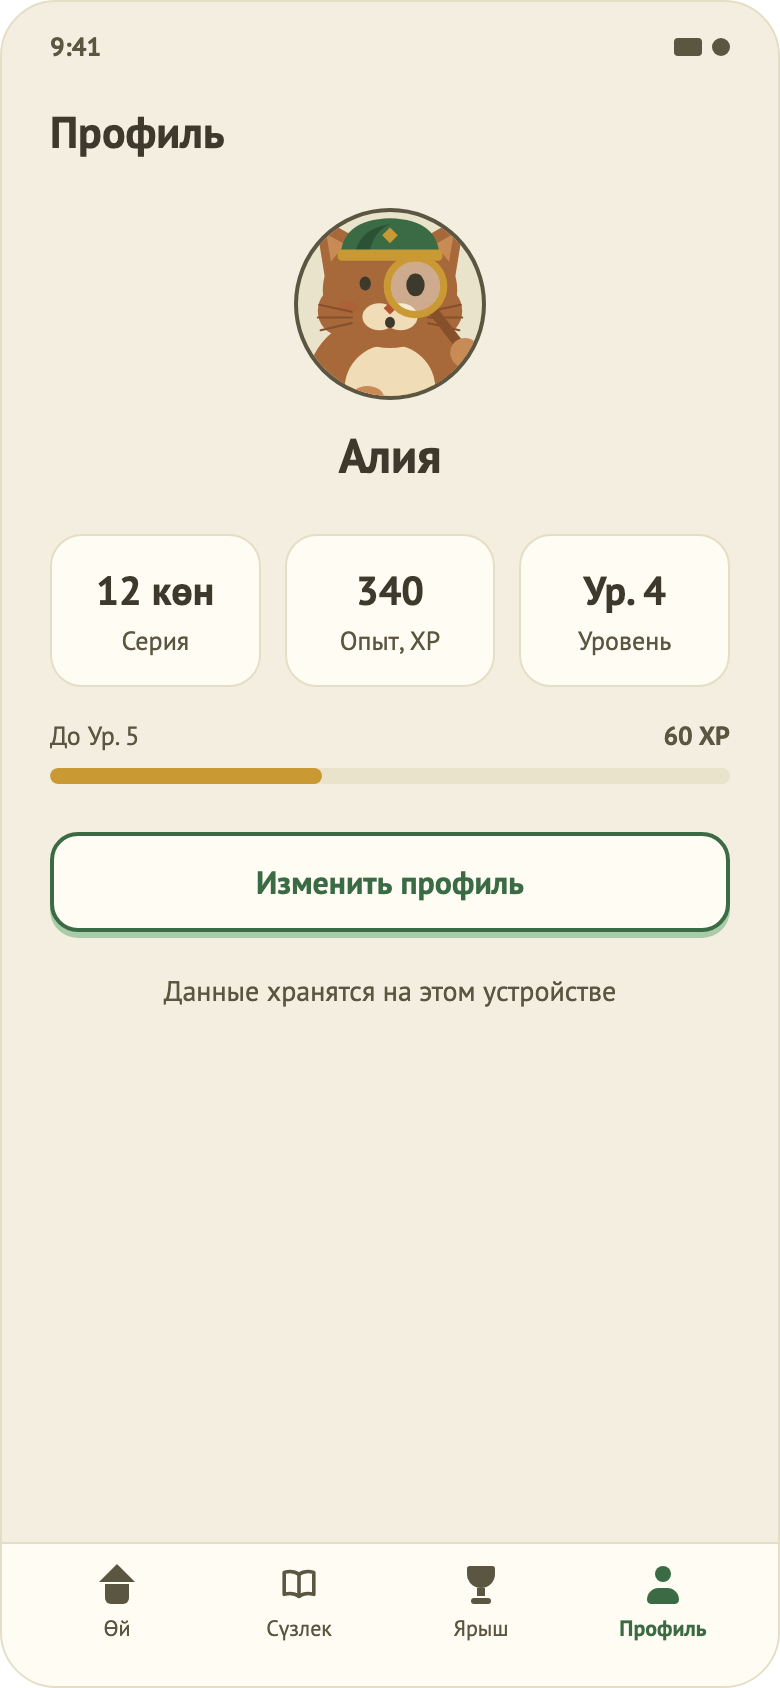
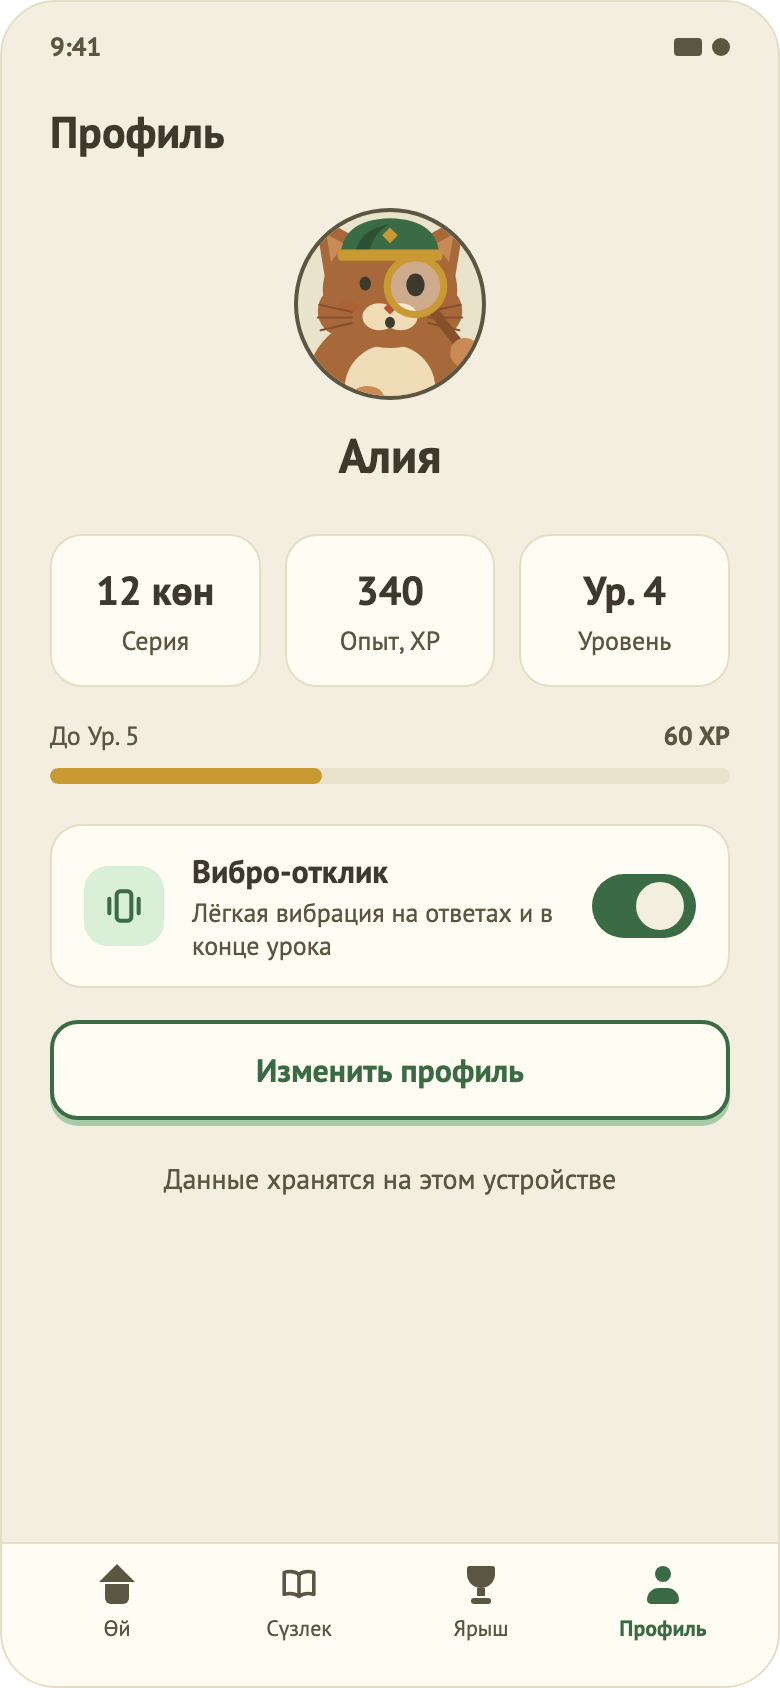
Add vibro toggle row to profile design

Changed region(s): [[0.0615, 0.4929, 0.9538, 0.7085]]

diff --git a/design/Tatar App Screens.dc.html b/design/Tatar App Screens.dc.html
@@ -449,7 +449,8 @@
 <div style="padding:24px 24px 0;display:flex;flex-direction:column;align-items:center;gap:12px"><div style="width:96px;height:96px;border-radius:50%;background:#3B6B45;color:#F3EEDF;border:2px solid #5A5642;box-sizing:border-box;display:flex;align-items:center;justify-content:center;font-size:40px;font-weight:700;flex-shrink:0">А</div><div style="font-size:24px;font-weight:700">Алия</div></div>
 <div style="padding:24px 24px 0;display:flex;gap:12px"><div style="flex:1;background:#FFFCF3;border:1px solid #E5DEC6;border-radius:16px;padding:14px 8px;display:flex;flex-direction:column;align-items:center;gap:4px"><div style="font-size:20px;font-weight:700">12 көн</div><div style="font-size:13px;color:#5A5642">Серия</div></div><div style="flex:1;background:#FFFCF3;border:1px solid #E5DEC6;border-radius:16px;padding:14px 8px;display:flex;flex-direction:column;align-items:center;gap:4px"><div style="font-size:20px;font-weight:700">340</div><div style="font-size:13px;color:#5A5642">Опыт, XP</div></div><div style="flex:1;background:#FFFCF3;border:1px solid #E5DEC6;border-radius:16px;padding:14px 8px;display:flex;flex-direction:column;align-items:center;gap:4px"><div style="font-size:20px;font-weight:700">Ур. 4</div><div style="font-size:13px;color:#5A5642">Уровень</div></div></div>
 <div style="padding:16px 24px 0"><div style="display:flex;flex-direction:column;gap:8px"><div style="display:flex;justify-content:space-between;font-size:13px;color:#5A5642"><span>До Ур. 5</span><span style="font-weight:700">60 XP</span></div><div style="height:8px;border-radius:4px;background:#EAE3CB;overflow:hidden"><div style="width:40%;height:100%;background:#C99A34;border-radius:4px"></div></div></div></div>
-<div style="padding:24px 24px 0"><div style="height:50px;border-radius:14px;background:#FFFCF3;border:2px solid #3B6B45;display:flex;align-items:center;justify-content:center;font-size:16px;font-weight:700;color:#3B6B45;box-shadow:0 3px 0 #A9CBA8;box-sizing:border-box">Изменить профиль</div></div>
+<div style="padding:20px 24px 0"><div style="background:#FFFCF3;border:1px solid #E5DEC6;border-radius:16px;padding:12px 16px;min-height:64px;display:flex;align-items:center;gap:14px;box-sizing:border-box"><div style="width:40px;height:40px;border-radius:12px;background:#D9EFD8;display:flex;align-items:center;justify-content:center;flex-shrink:0"><svg width="22" height="22" viewBox="0 0 24 24" fill="none" stroke="#3B6B45" stroke-width="2.2" stroke-linecap="round" stroke-linejoin="round"><rect x="8" y="4" width="8" height="16" rx="2"/><path d="M4 8 V16 M20 8 V16"/></svg></div><div style="flex:1;display:flex;flex-direction:column;gap:2px"><div style="font-size:16px;font-weight:700">Вибро-отклик</div><div style="font-size:13px;color:#5A5642">Лёгкая вибрация на ответах и в конце урока</div></div><div style="position:relative;width:52px;height:32px;border-radius:16px;background:#3B6B45;box-sizing:border-box;flex-shrink:0"><div style="position:absolute;top:4px;left:22px;width:24px;height:24px;border-radius:50%;background:#F3EEDF"></div></div></div></div>
+<div style="padding:16px 24px 0"><div style="height:50px;border-radius:14px;background:#FFFCF3;border:2px solid #3B6B45;display:flex;align-items:center;justify-content:center;font-size:16px;font-weight:700;color:#3B6B45;box-shadow:0 3px 0 #A9CBA8;box-sizing:border-box">Изменить профиль</div></div>
 <div style="padding:20px 24px 0;font-size:14px;color:#5A5642;text-align:center">Данные хранятся на этом устройстве</div>
 <div style="margin-top:auto;border-top:1px solid #E5DEC6;background:#FFFCF3;display:flex;padding:10px 12px 22px"><div style="flex:1;display:flex;flex-direction:column;align-items:center;gap:5px"><div style="width:20px;height:20px;position:relative"><div style="position:absolute;top:0;left:1px;width:0;height:0;border-left:9px solid transparent;border-right:9px solid transparent;border-bottom:9px solid #5A5642"></div><div style="position:absolute;bottom:0;left:4px;width:12px;height:10px;background:#5A5642;border-radius:0 0 3px 3px"></div></div><div style="font-size:11px;color:#5A5642">Өй</div></div><div style="flex:1;display:flex;flex-direction:column;align-items:center;gap:5px"><svg width="20" height="20" viewBox="0 0 20 20" fill="none" stroke="#5A5642" stroke-width="1.8" stroke-linejoin="round" stroke-linecap="round"><path d="M10 5.2C8 3.7 5.2 3.4 2.6 4.2V15.2C5.2 14.4 8 14.7 10 16.2C12 14.7 14.8 14.4 17.4 15.2V4.2C14.8 3.4 12 3.7 10 5.2Z"/><path d="M10 5.2V16.2"/></svg><div style="font-size:11px;color:#5A5642">Сүзлек</div></div><div style="flex:1;display:flex;flex-direction:column;align-items:center;gap:5px"><div style="width:20px;height:20px;position:relative"><div style="position:absolute;top:1px;left:3px;width:14px;height:11px;background:#5A5642;border-radius:2px 2px 10px 10px"></div><div style="position:absolute;top:12px;left:8px;width:4px;height:4px;background:#5A5642"></div><div style="position:absolute;bottom:0;left:5px;width:10px;height:3px;background:#5A5642;border-radius:2px"></div></div><div style="font-size:11px;color:#5A5642">Ярыш</div></div><div style="flex:1;display:flex;flex-direction:column;align-items:center;gap:5px"><div style="width:20px;height:20px;position:relative"><div style="position:absolute;top:1px;left:6px;width:8px;height:8px;border-radius:50%;background:#3B6B45"></div><div style="position:absolute;bottom:0;left:2px;width:16px;height:8px;background:#3B6B45;border-radius:8px 8px 3px 3px"></div></div><div style="font-size:11px;font-weight:700;color:#3B6B45">Профиль</div></div></div>
       </div>
@@ -554,7 +555,23 @@
 </div><div style="font-size:24px;font-weight:700">Алия</div></div>
 <div style="padding:24px 24px 0;display:flex;gap:12px"><div style="flex:1;background:#FFFCF3;border:1px solid #E5DEC6;border-radius:16px;padding:14px 8px;display:flex;flex-direction:column;align-items:center;gap:4px"><div style="font-size:20px;font-weight:700">12 көн</div><div style="font-size:13px;color:#5A5642">Серия</div></div><div style="flex:1;background:#FFFCF3;border:1px solid #E5DEC6;border-radius:16px;padding:14px 8px;display:flex;flex-direction:column;align-items:center;gap:4px"><div style="font-size:20px;font-weight:700">340</div><div style="font-size:13px;color:#5A5642">Опыт, XP</div></div><div style="flex:1;background:#FFFCF3;border:1px solid #E5DEC6;border-radius:16px;padding:14px 8px;display:flex;flex-direction:column;align-items:center;gap:4px"><div style="font-size:20px;font-weight:700">Ур. 4</div><div style="font-size:13px;color:#5A5642">Уровень</div></div></div>
 <div style="padding:16px 24px 0"><div style="display:flex;flex-direction:column;gap:8px"><div style="display:flex;justify-content:space-between;font-size:13px;color:#5A5642"><span>До Ур. 5</span><span style="font-weight:700">60 XP</span></div><div style="height:8px;border-radius:4px;background:#EAE3CB;overflow:hidden"><div style="width:40%;height:100%;background:#C99A34;border-radius:4px"></div></div></div></div>
-<div style="padding:24px 24px 0"><div style="height:50px;border-radius:14px;background:#FFFCF3;border:2px solid #3B6B45;display:flex;align-items:center;justify-content:center;font-size:16px;font-weight:700;color:#3B6B45;box-shadow:0 3px 0 #A9CBA8;box-sizing:border-box">Изменить профиль</div></div>
+<div style="padding:20px 24px 0"><div style="background:#FFFCF3;border:1px solid #E5DEC6;border-radius:16px;padding:12px 16px;min-height:64px;display:flex;align-items:center;gap:14px;box-sizing:border-box"><div style="width:40px;height:40px;border-radius:12px;background:#D9EFD8;display:flex;align-items:center;justify-content:center;flex-shrink:0"><svg width="22" height="22" viewBox="0 0 24 24" fill="none" stroke="#3B6B45" stroke-width="2.2" stroke-linecap="round" stroke-linejoin="round"><rect x="8" y="4" width="8" height="16" rx="2"/><path d="M4 8 V16 M20 8 V16"/></svg></div><div style="flex:1;display:flex;flex-direction:column;gap:2px"><div style="font-size:16px;font-weight:700">Вибро-отклик</div><div style="font-size:13px;color:#5A5642">Лёгкая вибрация на ответах и в конце урока</div></div><div style="position:relative;width:52px;height:32px;border-radius:16px;background:#3B6B45;box-sizing:border-box;flex-shrink:0"><div style="position:absolute;top:4px;left:22px;width:24px;height:24px;border-radius:50%;background:#F3EEDF"></div></div></div></div>
+<div style="padding:16px 24px 0"><div style="height:50px;border-radius:14px;background:#FFFCF3;border:2px solid #3B6B45;display:flex;align-items:center;justify-content:center;font-size:16px;font-weight:700;color:#3B6B45;box-shadow:0 3px 0 #A9CBA8;box-sizing:border-box">Изменить профиль</div></div>
+<div style="padding:20px 24px 0;font-size:14px;color:#5A5642;text-align:center">Данные хранятся на этом устройстве</div>
+<div style="margin-top:auto;border-top:1px solid #E5DEC6;background:#FFFCF3;display:flex;padding:10px 12px 22px"><div style="flex:1;display:flex;flex-direction:column;align-items:center;gap:5px"><div style="width:20px;height:20px;position:relative"><div style="position:absolute;top:0;left:1px;width:0;height:0;border-left:9px solid transparent;border-right:9px solid transparent;border-bottom:9px solid #5A5642"></div><div style="position:absolute;bottom:0;left:4px;width:12px;height:10px;background:#5A5642;border-radius:0 0 3px 3px"></div></div><div style="font-size:11px;color:#5A5642">Өй</div></div><div style="flex:1;display:flex;flex-direction:column;align-items:center;gap:5px"><svg width="20" height="20" viewBox="0 0 20 20" fill="none" stroke="#5A5642" stroke-width="1.8" stroke-linejoin="round" stroke-linecap="round"><path d="M10 5.2C8 3.7 5.2 3.4 2.6 4.2V15.2C5.2 14.4 8 14.7 10 16.2C12 14.7 14.8 14.4 17.4 15.2V4.2C14.8 3.4 12 3.7 10 5.2Z"/><path d="M10 5.2V16.2"/></svg><div style="font-size:11px;color:#5A5642">Сүзлек</div></div><div style="flex:1;display:flex;flex-direction:column;align-items:center;gap:5px"><div style="width:20px;height:20px;position:relative"><div style="position:absolute;top:1px;left:3px;width:14px;height:11px;background:#5A5642;border-radius:2px 2px 10px 10px"></div><div style="position:absolute;top:12px;left:8px;width:4px;height:4px;background:#5A5642"></div><div style="position:absolute;bottom:0;left:5px;width:10px;height:3px;background:#5A5642;border-radius:2px"></div></div><div style="font-size:11px;color:#5A5642">Ярыш</div></div><div style="flex:1;display:flex;flex-direction:column;align-items:center;gap:5px"><div style="width:20px;height:20px;position:relative"><div style="position:absolute;top:1px;left:6px;width:8px;height:8px;border-radius:50%;background:#3B6B45"></div><div style="position:absolute;bottom:0;left:2px;width:16px;height:8px;background:#3B6B45;border-radius:8px 8px 3px 3px"></div></div><div style="font-size:11px;font-weight:700;color:#3B6B45">Профиль</div></div></div>
+      </div>
+    </div>
+
+    <div data-screen-label="38 Профиль: вибро выключено" style="display:flex;flex-direction:column;gap:10px">
+      <div style="font-family:ui-monospace,monospace;font-size:12px;color:#5A5642">38 · профиль: вибро выключено</div>
+      <div style="position:relative;width:390px;height:844px;background:#F3EEDF;border:1px solid #E5DEC6;border-radius:28px;box-shadow:0 14px 36px rgba(61,58,45,.14);overflow:hidden;display:flex;flex-direction:column;box-sizing:border-box">
+        <div style="display:flex;justify-content:space-between;align-items:center;padding:14px 24px 4px;font-size:13px;font-weight:700;color:#5A5642"><div>9:41</div><div style="display:flex;gap:5px;align-items:center"><div style="width:14px;height:9px;background:#5A5642;border-radius:2px"></div><div style="width:9px;height:9px;background:#5A5642;border-radius:50%"></div></div></div>
+<div style="padding:16px 24px 0;font-size:22px;font-weight:700">Профиль</div>
+<div style="padding:24px 24px 0;display:flex;flex-direction:column;align-items:center;gap:12px"><div style="width:96px;height:96px;border-radius:50%;background:#3B6B45;color:#F3EEDF;border:2px solid #5A5642;box-sizing:border-box;display:flex;align-items:center;justify-content:center;font-size:40px;font-weight:700;flex-shrink:0">А</div><div style="font-size:24px;font-weight:700">Алия</div></div>
+<div style="padding:24px 24px 0;display:flex;gap:12px"><div style="flex:1;background:#FFFCF3;border:1px solid #E5DEC6;border-radius:16px;padding:14px 8px;display:flex;flex-direction:column;align-items:center;gap:4px"><div style="font-size:20px;font-weight:700">12 көн</div><div style="font-size:13px;color:#5A5642">Серия</div></div><div style="flex:1;background:#FFFCF3;border:1px solid #E5DEC6;border-radius:16px;padding:14px 8px;display:flex;flex-direction:column;align-items:center;gap:4px"><div style="font-size:20px;font-weight:700">340</div><div style="font-size:13px;color:#5A5642">Опыт, XP</div></div><div style="flex:1;background:#FFFCF3;border:1px solid #E5DEC6;border-radius:16px;padding:14px 8px;display:flex;flex-direction:column;align-items:center;gap:4px"><div style="font-size:20px;font-weight:700">Ур. 4</div><div style="font-size:13px;color:#5A5642">Уровень</div></div></div>
+<div style="padding:16px 24px 0"><div style="display:flex;flex-direction:column;gap:8px"><div style="display:flex;justify-content:space-between;font-size:13px;color:#5A5642"><span>До Ур. 5</span><span style="font-weight:700">60 XP</span></div><div style="height:8px;border-radius:4px;background:#EAE3CB;overflow:hidden"><div style="width:40%;height:100%;background:#C99A34;border-radius:4px"></div></div></div></div>
+<div style="padding:20px 24px 0"><div style="background:#FFFCF3;border:1px solid #E5DEC6;border-radius:16px;padding:12px 16px;min-height:64px;display:flex;align-items:center;gap:14px;box-sizing:border-box"><div style="width:40px;height:40px;border-radius:12px;background:#D9EFD8;display:flex;align-items:center;justify-content:center;flex-shrink:0"><svg width="22" height="22" viewBox="0 0 24 24" fill="none" stroke="#3B6B45" stroke-width="2.2" stroke-linecap="round" stroke-linejoin="round"><rect x="8" y="4" width="8" height="16" rx="2"/><path d="M4 8 V16 M20 8 V16"/></svg></div><div style="flex:1;display:flex;flex-direction:column;gap:2px"><div style="font-size:16px;font-weight:700">Вибро-отклик</div><div style="font-size:13px;color:#5A5642">Лёгкая вибрация на ответах и в конце урока</div></div><div style="position:relative;width:52px;height:32px;border-radius:16px;background:#EAE3CB;border:2px solid #5A5642;box-sizing:border-box;flex-shrink:0"><div style="position:absolute;top:2px;left:2px;width:24px;height:24px;border-radius:50%;background:#5A5642"></div></div></div></div>
+<div style="padding:16px 24px 0"><div style="height:50px;border-radius:14px;background:#FFFCF3;border:2px solid #3B6B45;display:flex;align-items:center;justify-content:center;font-size:16px;font-weight:700;color:#3B6B45;box-shadow:0 3px 0 #A9CBA8;box-sizing:border-box">Изменить профиль</div></div>
 <div style="padding:20px 24px 0;font-size:14px;color:#5A5642;text-align:center">Данные хранятся на этом устройстве</div>
 <div style="margin-top:auto;border-top:1px solid #E5DEC6;background:#FFFCF3;display:flex;padding:10px 12px 22px"><div style="flex:1;display:flex;flex-direction:column;align-items:center;gap:5px"><div style="width:20px;height:20px;position:relative"><div style="position:absolute;top:0;left:1px;width:0;height:0;border-left:9px solid transparent;border-right:9px solid transparent;border-bottom:9px solid #5A5642"></div><div style="position:absolute;bottom:0;left:4px;width:12px;height:10px;background:#5A5642;border-radius:0 0 3px 3px"></div></div><div style="font-size:11px;color:#5A5642">Өй</div></div><div style="flex:1;display:flex;flex-direction:column;align-items:center;gap:5px"><svg width="20" height="20" viewBox="0 0 20 20" fill="none" stroke="#5A5642" stroke-width="1.8" stroke-linejoin="round" stroke-linecap="round"><path d="M10 5.2C8 3.7 5.2 3.4 2.6 4.2V15.2C5.2 14.4 8 14.7 10 16.2C12 14.7 14.8 14.4 17.4 15.2V4.2C14.8 3.4 12 3.7 10 5.2Z"/><path d="M10 5.2V16.2"/></svg><div style="font-size:11px;color:#5A5642">Сүзлек</div></div><div style="flex:1;display:flex;flex-direction:column;align-items:center;gap:5px"><div style="width:20px;height:20px;position:relative"><div style="position:absolute;top:1px;left:3px;width:14px;height:11px;background:#5A5642;border-radius:2px 2px 10px 10px"></div><div style="position:absolute;top:12px;left:8px;width:4px;height:4px;background:#5A5642"></div><div style="position:absolute;bottom:0;left:5px;width:10px;height:3px;background:#5A5642;border-radius:2px"></div></div><div style="font-size:11px;color:#5A5642">Ярыш</div></div><div style="flex:1;display:flex;flex-direction:column;align-items:center;gap:5px"><div style="width:20px;height:20px;position:relative"><div style="position:absolute;top:1px;left:6px;width:8px;height:8px;border-radius:50%;background:#3B6B45"></div><div style="position:absolute;bottom:0;left:2px;width:16px;height:8px;background:#3B6B45;border-radius:8px 8px 3px 3px"></div></div><div style="font-size:11px;font-weight:700;color:#3B6B45">Профиль</div></div></div>
       </div>
